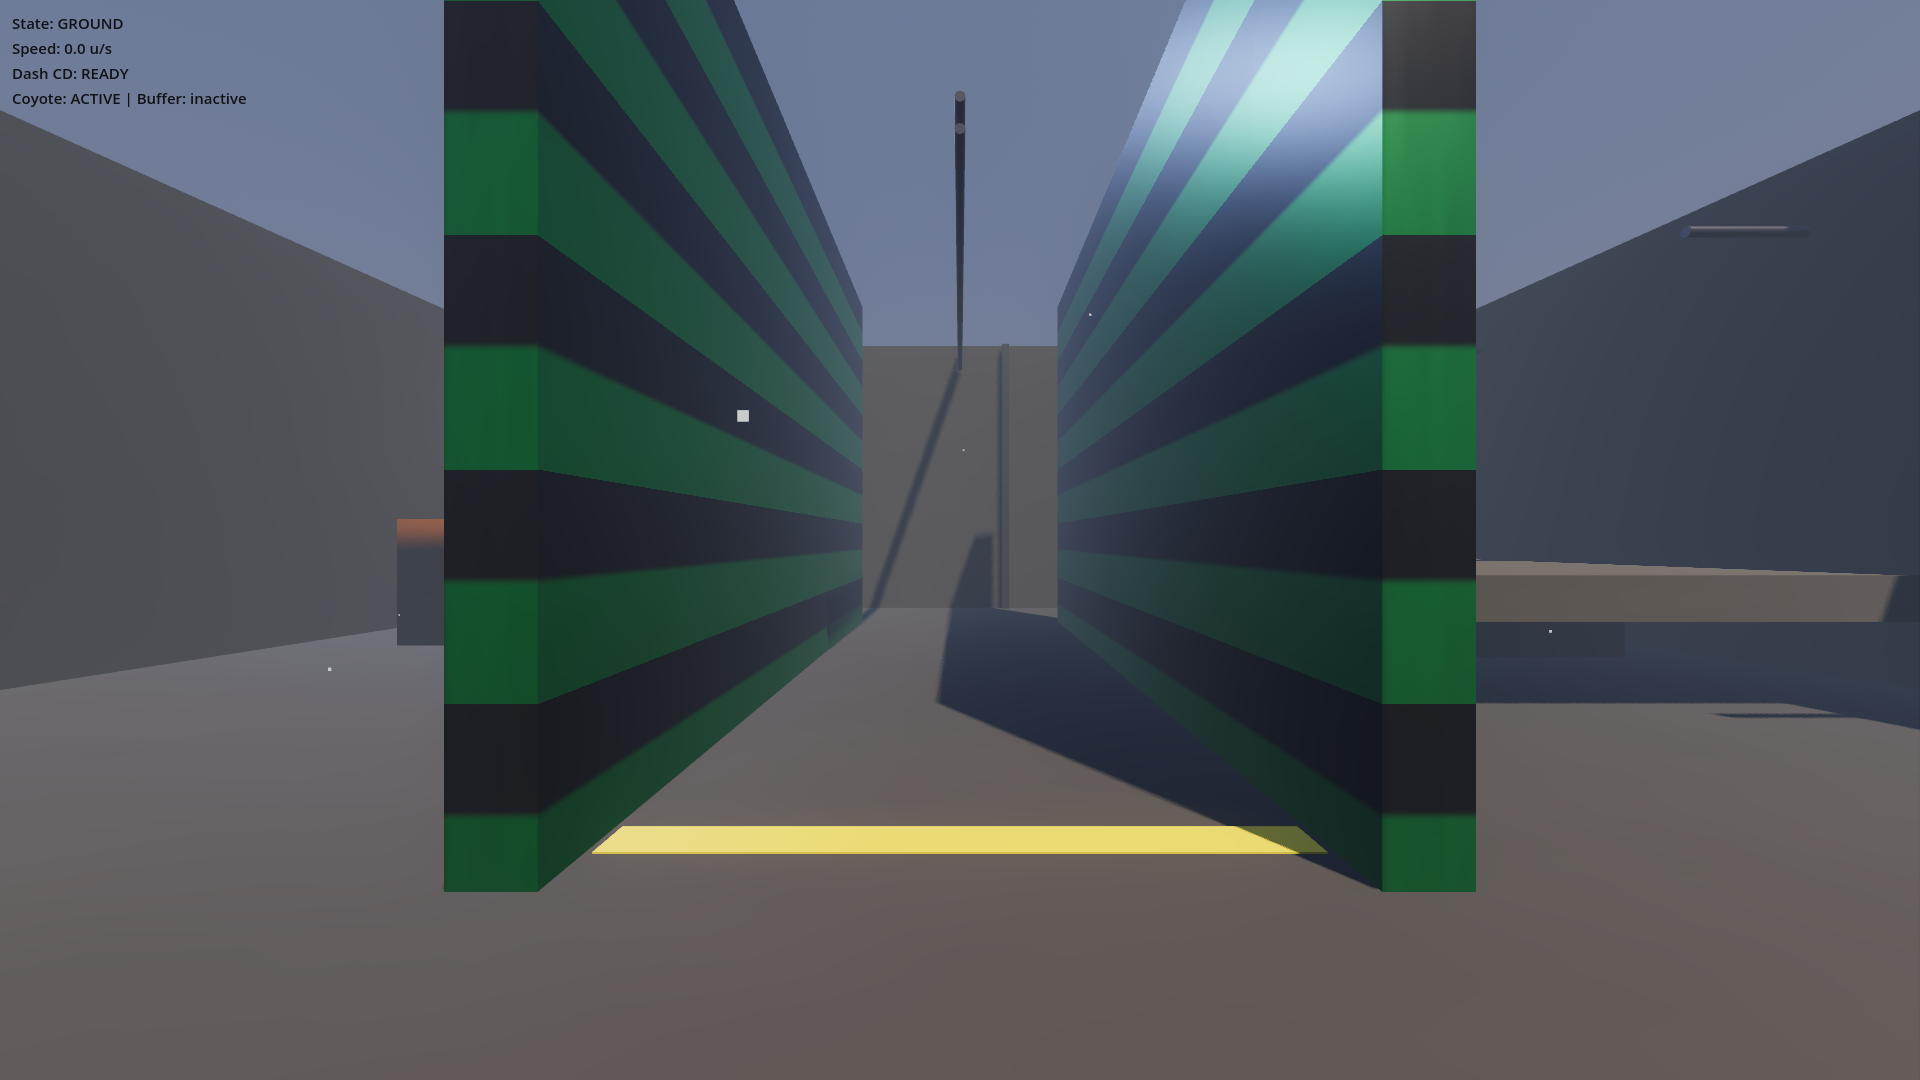
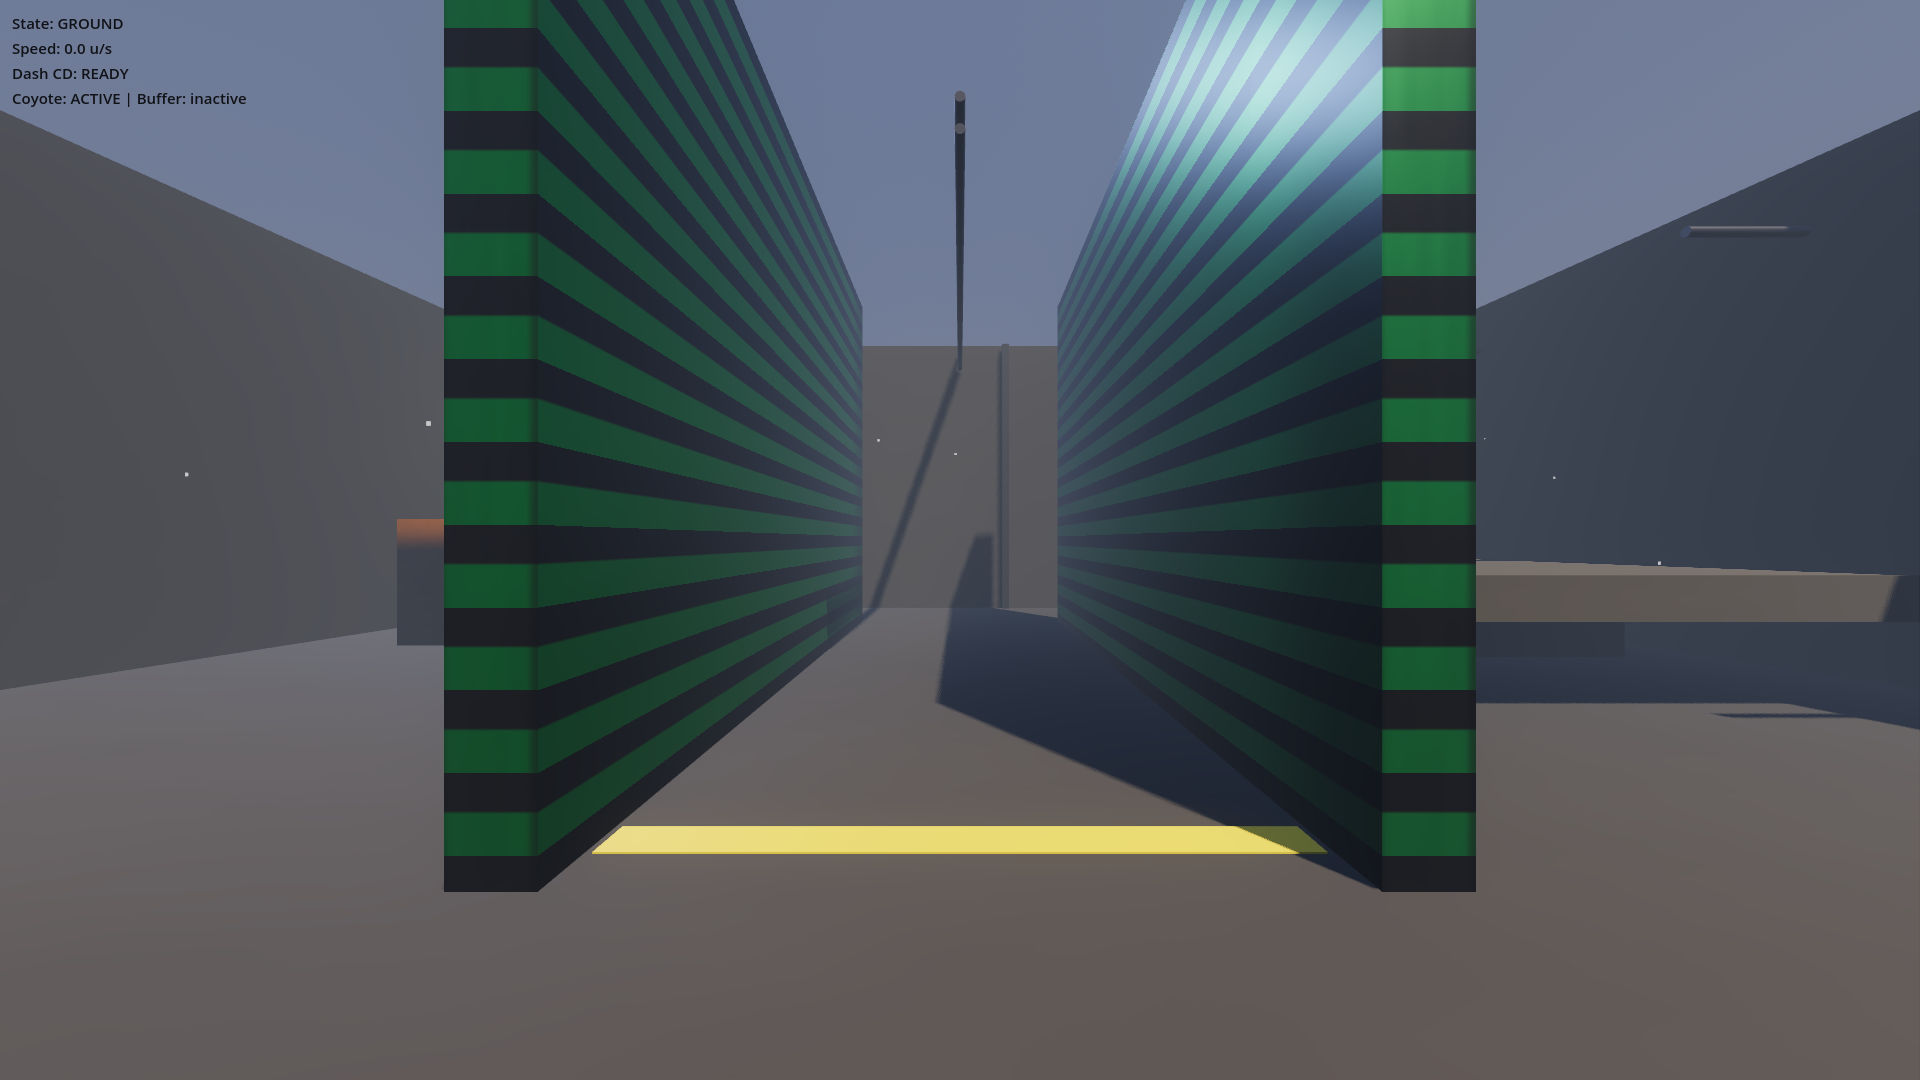
Fix wallrun wall stripe density: 34 stripes/face, evidence + regenerated screenshots
Root cause: WallRunLeft/WallRunRight carry an inline ShaderMaterial whose
stripe_freq was only 12 stripes per 6 m face (0.5 m stripes). On the
verification vantages the visible wall height is heavily foreshortened, so
only 2-4 coarse green bands are in frame — reading as the 'giant diagonal'
pattern. The earlier 8->12 change was imperceptible (1.5x).

Fix: stripe_freq 12 -> 34 (0.176 m stripes, hint range 2..128 in both
builders) plus subtle vertical panel lines so the wall reads as small
repeating tiles from any angle.

Proof (scripts/tools/stripe_check.py):
  transitions (stripe boundaries crossed down the wall):
    spawn:    9  -> 21
    wallrun:  7  -> 15
    platform: wall small/distant in-frame (0); controlled close-up proves
              material: freq12=4 bands vs freq34=11 bands (same camera)
    (verification_screenshots/wallrun_ab_freq*.png)

Camera vantages unchanged (sanity rays fwd 15.60/7.46/13.60 all pass).

diff --git a/scripts/tools/stripe_check.py b/scripts/tools/stripe_check.py
@@ -1,0 +1,85 @@
+#!/usr/bin/env python3
+"""Stripe-density verification for the green wallrun walls.
+
+Counts how many distinct stripe-width transitions occur across the striped wall
+surface in a verification screenshot:
+
+  - green mask sampled every 2 px: g > r+25 and g > b+10
+  - the 12 columns with the most green pixels are taken as the near/visible
+    wall face; for each, transitions are counted across its green vertical
+    span (that strip crosses the horizontal caution stripes)
+  - reported: median and max transition count, plus implied stripe-band count
+    (transitions / 2)
+
+A second mode (--ab) counts the same metric on the controlled close-up pair
+(same camera, stripe_freq 12 vs 34).
+
+Usage:
+  python3 scripts/tools/stripe_check.py <before_dir> <after_dir>
+  python3 scripts/tools/stripe_check.py --ab <freq12.png> <freq34.png>
+"""
+import os
+import statistics
+import sys
+
+from PIL import Image
+
+STEP = 2
+THR = 25
+N_COLS = 12
+
+
+def near_wall_metric(path):
+    im = Image.open(path).convert("RGB")
+    w, h = im.size
+    px = im.load()
+    wl = w // STEP
+    hl = h // STEP
+    m = []
+    for x in range(wl):
+        col = []
+        for y in range(hl):
+            r, g, b = px[x * STEP, y * STEP]
+            col.append(1 if (g > r + THR and g > b + 10) else 0)
+        m.append(col)
+    totals = [sum(c) for c in m]
+    best_cols = sorted(range(wl), key=lambda x: -totals[x])[:N_COLS]
+    trans = []
+    for x in best_cols:
+        col = m[x]
+        ys = [y for y in range(hl) if col[y]]
+        if not ys:
+            continue
+        sub = col[min(ys):max(ys) + 1]
+        t = 0
+        prev = 0
+        for v in sub:
+            if v != prev:
+                t += 1
+            prev = v
+        trans.append(t)
+    if not trans:
+        return (0, 0)
+    med = statistics.median(trans)
+    return (int(med), (int(med) + 1) // 2)
+
+
+def main():
+    shots = ["01_spawn_facing_room", "02_platform_looking_back", "03_wallrun_approach"]
+    if sys.argv[1] == "--ab":
+        a = near_wall_metric(sys.argv[2])
+        b = near_wall_metric(sys.argv[3])
+        print("close-up A/B (transitions, stripe-bands):")
+        print("  freq12 (before):  %d / %d" % (a[0], a[1]))
+        print("  freq34 (fixed):   %d / %d" % (b[0], b[1]))
+        return
+    before_dir, after_dir = sys.argv[1], sys.argv[2]
+    print("%-24s %-20s %s" % ("screenshot", "BEFORE trans/bands", "AFTER trans/bands"))
+    for shot in shots:
+        b = near_wall_metric(os.path.join(before_dir, shot + ".png"))
+        a = near_wall_metric(os.path.join(after_dir, shot + ".png"))
+        print("%-24s %10d / %-5d %10d / %d" % (shot, b[0], b[1], a[0], a[1]))
+
+
+if __name__ == "__main__":
+    main()
